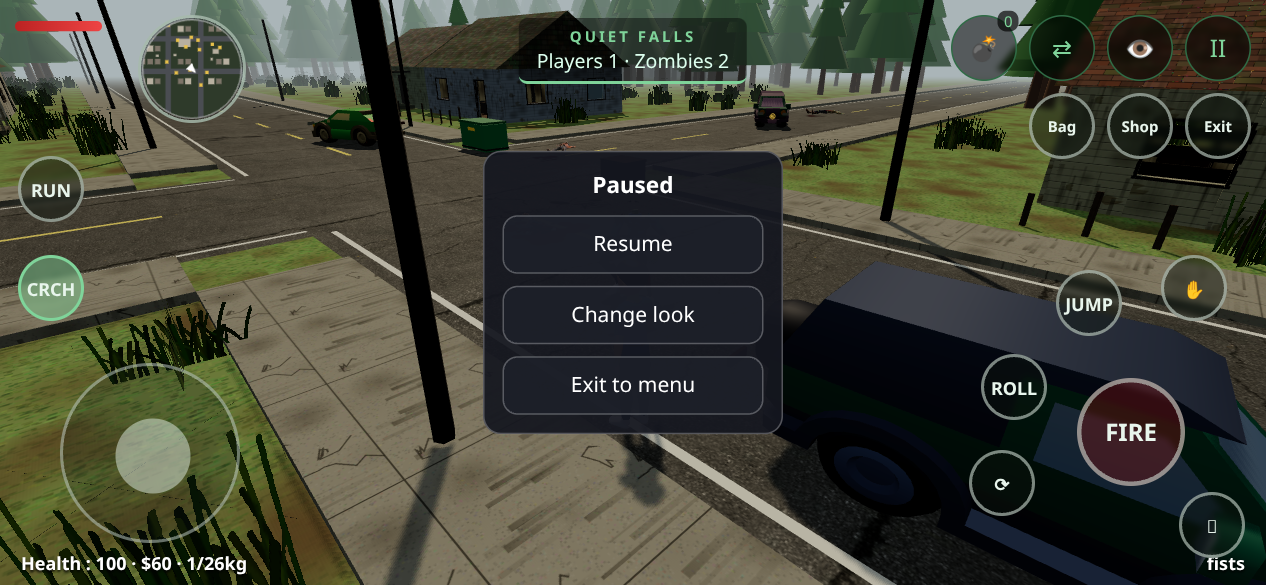
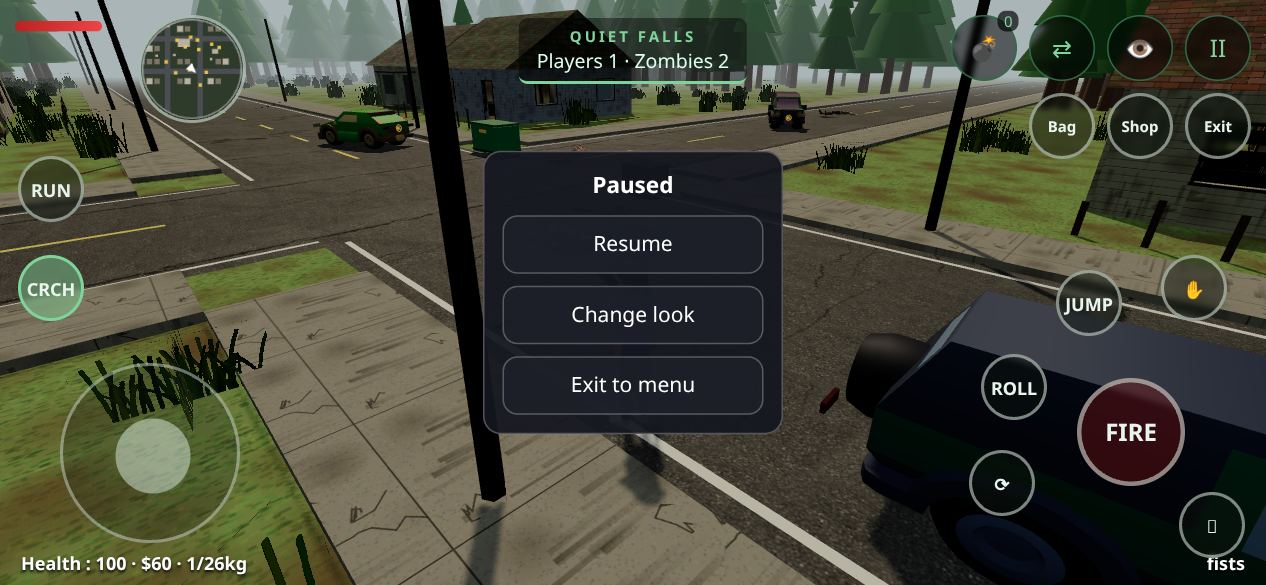
MP HUD: HIT label, crouch/run class sync, driving camera ignores own car, hide Bag/Shop row while driving, story/MP side-by-side proof

diff --git a/src/mp/town/town.js b/src/mp/town/town.js
@@ -145,7 +145,7 @@ export async function enterTown({ look, onExit } = {}) {
     // story controls -> town actions
     camYaw -= inp.look.x; if (fp) fpPitch = clamp(fpPitch - inp.look.y, -1.2, 1.1); else camPitch = clamp(camPitch + inp.look.y * .5, .12, 1.0); inp.look.set(0, 0);
     if (inp.pressed('use')) wantUse = true; if (inp.pressed('reload')) wantAlt = true; if (inp.pressed('swap')) swapWeapon(); if (inp.pressed('gren')) toast('No grenades'); if (inp.pressed('view')) { fp = !fp; toast(fp ? 'First person' : 'Third person'); }
-    if (inp.pressed('crouch')) { shim.state.crouch = !shim.state.crouch; } if (inp.pressed('atk') || inp.atk) wantHit = true; if (inp.pressed('jump') && !me.drv && me.y <= 0 && me.dead <= 0) jumpVy = 5.4; if (inp.pressed('roll') && !me.drv && roll <= 0 && me.dead <= 0) { roll = .55; }
+    if (inp.pressed('crouch')) { shim.state.crouch = !shim.state.crouch; } { const cb = $q("#tCrouch"), rb = $q("#tRun"); cb && cb.classList.toggle("on", shim.state.crouch); rb && rb.classList.toggle("on", !!inp.touchRun); } if (inp.pressed('atk') || inp.atk) wantHit = true; if (inp.pressed('jump') && !me.drv && me.y <= 0 && me.dead <= 0) jumpVy = 5.4; if (inp.pressed('roll') && !me.drv && roll <= 0 && me.dead <= 0) { roll = .55; }
     aimZoom = inp.aim; hitHeld = !!(inp.atk || inp.btn.atk); // while driving the FIRE button is the handbrake
     if (me.drv) { const g = drv.gas - (drv.brake && me.drv.v < .5 ? 1 : 0); if (g) iy = -g; if (drv.l || drv.r) ix = drv.r - drv.l; if (drv.brake && me.drv.v >= .5) hitHeld = true; }
     // interactions
@@ -185,11 +185,11 @@ export async function enterTown({ look, onExit } = {}) {
     else { const tgt = new THREE.Vector3(me.x, (c ? 1.5 : 1.45) + me.y, me.z); const pitch = c ? .36 : inb ? Math.max(camPitch, .85) : camPitch; const dd = (c ? 8.6 : inb ? 5.2 : camDist) * (aimZoom && !c ? .72 : 1); const yawEff = c ? me.ry : camYaw; if (c) camYaw = me.ry;
       const dir = new THREE.Vector3(-Math.sin(yawEff) * Math.cos(pitch), Math.sin(pitch), -Math.cos(yawEff) * Math.cos(pitch)); let dist = dd, hit = false;
       // camera collision: walk out from the player along the camera ray and stop short of walls, trees and cars
-      for (let d = .6; d <= dd + .01; d += .35) { const px = tgt.x + dir.x * d, py = tgt.y + dir.y * d, pz = tgt.z + dir.z * d; let bad = py < .15 || (py < 2.7 && col.hit(px, pz, .28)); if (!bad && py < 2.4) for (const k of cars) { if (!k.g.visible) continue; if (Math.hypot(px - k.x, pz - k.z) < k.rad + .3) { for (const [cx, cz] of k.circles()) if (Math.hypot(px - cx, pz - cz) < .95) { bad = true; break; } } if (bad) break; } if (bad) { dist = Math.max(.7, d - .45); hit = true; break; } }
+      for (let d = .6; d <= dd + .01; d += .35) { const px = tgt.x + dir.x * d, py = tgt.y + dir.y * d, pz = tgt.z + dir.z * d; let bad = py < .15 || (py < 2.7 && col.hit(px, pz, .28)); if (!bad && py < 2.4) for (const k of cars) { if (k === me.drv || !k.g.visible) continue; if (Math.hypot(px - k.x, pz - k.z) < k.rad + .3) { for (const [cx, cz] of k.circles()) if (Math.hypot(px - cx, pz - cz) < .95) { bad = true; break; } } if (bad) break; } if (bad) { dist = Math.max(.7, d - .45); hit = true; break; } }
       const want = new THREE.Vector3(tgt.x + dir.x * dist, tgt.y + dir.y * dist, tgt.z + dir.z * dist); if (!camInit) { camPos.copy(want); camInit = true; } if (hit) camPos.copy(want); else camPos.lerp(want, Math.min(1, dt * (c ? 5 : 9))); cam.position.copy(camPos); cam.lookAt(tgt); }
     sun.position.set(me.x + 36, 60, me.z + 28); sun.target.position.set(me.x, 0, me.z); sun.target.updateMatrixWorld();
     // HUD
-    { const hb = $q('#hpb i'); if (hb) hb.style.width = me.hp + '%'; $q('#hpTxt').textContent = `Health : ${Math.ceil(me.hp)}  ·  $${bag.count('cash')}  ·  ${bag.weight.toFixed(0)}/${bag.cap}kg`; $q('#ammoTxt').textContent = c ? `${c.kind || 'Car'}  ·  ${Math.round(c.fuel)} L` : bag.best().name; const ob = $q('#obj'); ob.innerHTML = `<b>QUIET FALLS</b><span>Players ${net.peers.size + 1}${Z ? ` · Zombies ${Z.stats().alive}` : ''}</span>`;
+    { const hb = $q('#hpb i'); if (hb) hb.style.width = me.hp + '%'; $q('#hpTxt').textContent = `Health : ${Math.ceil(me.hp)}  ·  $${bag.count('cash')}  ·  ${bag.weight.toFixed(0)}/${bag.cap}kg`; $q('#ammoTxt').textContent = c ? `${c.kind || 'Car'}  ·  ${Math.round(c.fuel)} L` : (n => n.charAt(0).toUpperCase() + n.slice(1))(bag.best().name); { const ta = $q('#tAtk'); if (ta) ta.textContent = 'HIT'; } const ob = $q('#obj'); ob.innerHTML = `<b>QUIET FALLS</b><span>Players ${net.peers.size + 1}${Z ? ` · Zombies ${Z.stats().alive}` : ''}</span>`;
       document.body.classList.toggle('driving', !!c); driveEl && driveEl.classList.toggle('hidden', !c); gaugeC.style.display = c ? 'block' : 'none'; if (c) drawGauge(gaugeC, c.fuelFrac, Math.abs(c.v) * 3.6, c.fuelFrac < .15, t); const tu = $q('#tUse'); if (tu && !SET.hudv2) tu.textContent = '✋'; }
     minAcc += dt; if (minAcc > .12) { minAcc = 0; drawMini(); }
     renderer.render(scene, cam);

diff --git a/src/mp/town/ui.js b/src/mp/town/ui.js
@@ -15,7 +15,7 @@ export const CSS = `#mpt{position:fixed;inset:0;z-index:61;background:#aab5b8;to
 #mpt .panel .rows{overflow:auto;display:flex;flex-direction:column;gap:4px;max-height:230px}#mpt .panel .row{display:flex;justify-content:space-between;align-items:center;background:#ffffff14;border-radius:8px;padding:5px 8px;font-size:13px;gap:8px}#mpt .panel .row button{padding:4px 10px}
 #mpt .dead{position:absolute;inset:0;background:#300c;display:none;align-items:center;justify-content:center;flex-direction:column;font-size:20px;gap:8px}
 #stage>#mpt{position:absolute;inset:0;z-index:3}#mpt .gauge{right:auto;left:50%;margin-left:-52px;bottom:8px}
-#hudr2{position:absolute;top:62px;right:max(10px,env(safe-area-inset-right));display:flex;gap:8px;z-index:8;pointer-events:none}#hudr2 .rb{width:44px;height:44px;font-size:10px;pointer-events:auto}
+body.driving #hudr2{display:none}#hudr2{position:absolute;top:62px;right:max(10px,env(safe-area-inset-right));display:flex;gap:8px;z-index:8;pointer-events:none}#hudr2 .rb{width:44px;height:44px;font-size:10px;pointer-events:auto}
 #mpt .pausep{position:absolute;left:50%;top:50%;transform:translate(-50%,-50%);display:none;flex-direction:column;gap:8px;background:#14171fee;border:1px solid #fff4;border-radius:12px;padding:12px;min-width:200px;z-index:9}#mpt .pausep h3{margin:0 0 2px;text-align:center;font-size:15px}#mpt .pausep button{padding:9px 12px;font-size:14px}`;
 export const el = (t, p = {}, ...k) => { const e = document.createElement(t); for (const a in p) { if (a === 'cls') e.className = p[a]; else if (a === 'on') for (const ev in p.on) e.addEventListener(ev, p.on[ev]); else e.setAttribute(a, p[a]); } e.append(...k.filter(x => x != null && x !== false)); return e; };
 export function drawGauge(cv, frac, kmh, low, t) { const g = cv.getContext('2d'), W = cv.width, H = cv.height; g.clearRect(0, 0, W, H); const cx = W / 2, cy = H - 14, r = H * .78;

diff --git a/src/mp/town/loot.js b/src/mp/town/loot.js
@@ -40,7 +40,7 @@ export class Bag {
   can(id, n = 1) { return this.weight + ITEMS[id].w * n <= this.cap + 1e-6; }
   add(id, n = 1) { let got = 0; for (let i = 0; i < n; i++) { if (!this.can(id)) break; this.items[id] = (this.items[id] || 0) + 1; got++; } if (got) this.onChange && this.onChange(); return got; }
   remove(id, n = 1) { if (this.count(id) < n) return false; this.items[id] -= n; if (!this.items[id]) delete this.items[id]; this.onChange && this.onChange(); return true; }
-  best() { let b = { name: 'fists', dmg: 1, reach: 1.2 }; for (const k in this.items) { const m = ITEMS[k].melee; if (m && m.dmg > b.dmg) b = m; } return b; }
+  best() { let b = { name: 'fists', dmg: 1, reach: 1.2 }; if (this.pref === 'fists') return b; if (this.pref && this.items[this.pref] && ITEMS[this.pref].melee) return ITEMS[this.pref].melee; for (const k in this.items) { const m = ITEMS[k].melee; if (m && m.dmg > b.dmg) b = m; } return b; }
   hasPry() { return this.count('crowbar') > 0; }
 }
 
